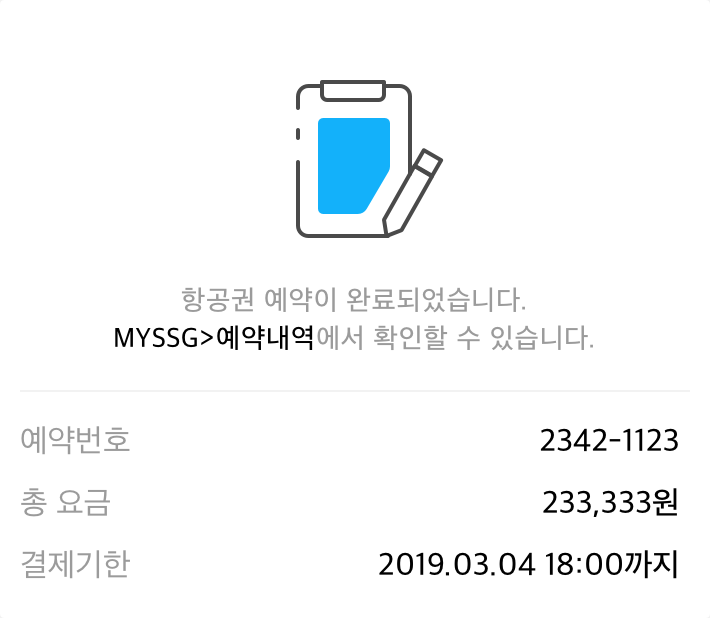
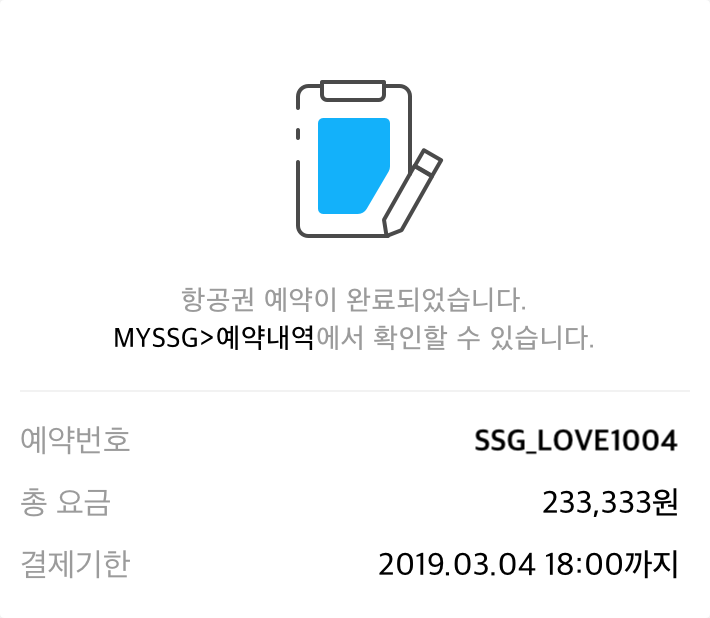
no message

Changed region(s): [[0.6507, 0.6764, 0.9606, 0.7379]]

diff --git a/pages/cart.vue b/pages/cart.vue
@@ -36,7 +36,7 @@
                 <div>
                   <div>
                     <div>
-                      <span>예약번호</span> 1234-1234
+                      <span>예약번호</span> SSG_LOVE1004
                       <div>좌석확정</div>
                       <div>요금확정</div>
                     </div>
@@ -46,7 +46,7 @@
                       params: { popup: 'detail' },
                     })">
                       <div>인천(ICN) - 런던(LHR) | 3월 13일(목)</div>
-                      <div>런던(LHR) - 인천(ICN) | 3월 19일(수)</div>
+                      <div>런던(LHR) - 인천(ICㅁㄴㅇㅁㄴN) | 3월 19일(수)</div>
                       <div>에어프랑스 | 일반석 | 성인1명</div>
                     </div>
                     <div>
